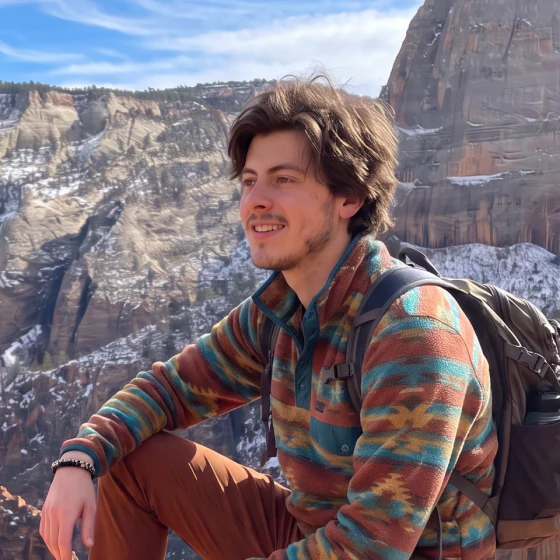
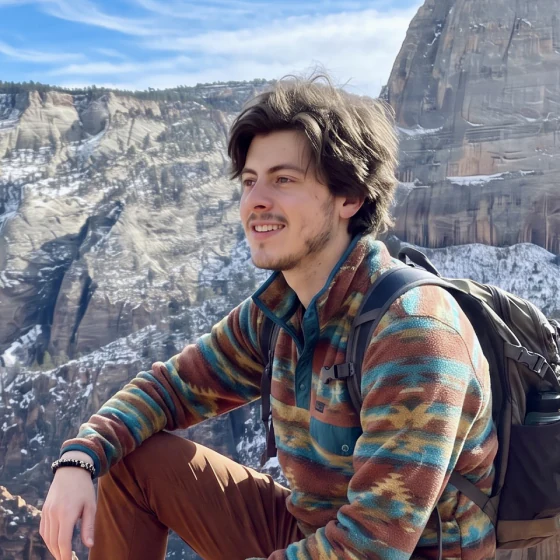
updated profile picture and blurb

diff --git a/app/src/data/siteIdentity.ts b/app/src/data/siteIdentity.ts
@@ -116,7 +116,7 @@ export const ogImagePath = '/og-card.png';
  *  `Person.image`. One file, so the face search shows and the face the page
  *  shows cannot diverge. Regenerate from the full-resolution source with:
  *    cwebp -q 88 -m 6 -sharp_yuv -crop 735 200 960 960 -resize 560 0 \
- *      me.png -o public/portrait.webp
+ *      src/assets/me.jpg -o public/portrait.webp
  *  The crop is deliberate: a circular mask clips the square's corners, so the
  *  subject needs headroom or the mask cuts his hair. */
 export const portraitPath = '/portrait.webp';
